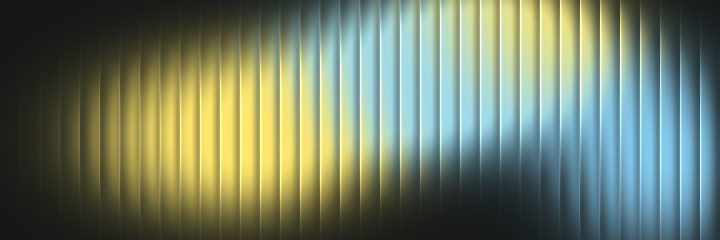
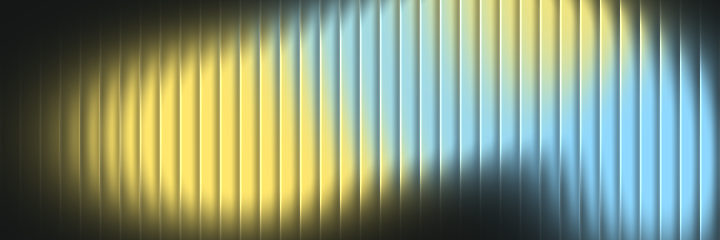
v6 contact: shorter panel, heading right + small light form left, no grain, stronger ribbed gradient reacting to mouse

diff --git a/versions/v6/assets/js/ribbed-gradient.js b/versions/v6/assets/js/ribbed-gradient.js
@@ -8,10 +8,10 @@
   var VS = 'attribute vec2 p;void main(){gl_Position=vec4(p,0.,1.);}';
   var FS = [
     'precision highp float;',
-    'uniform vec2 R,M,FO;uniform float T,N,I,KA;uniform vec3 B,C1,C2;uniform vec4 K0,K1;',
+    'uniform vec2 R,M,FO;uniform float T,N,I,KA,MS;uniform vec3 B,C1,C2;uniform vec4 K0,K1;',
     'float bl(vec2 p,vec2 c,vec2 s){vec2 d=(p-c)/s;return exp(-dot(d,d));}',
     'vec2 fld(vec2 u,float a){',
-    ' vec2 p=vec2(u.x*a,u.y);vec2 m=(M-.5)*vec2(.14*a,.14);',
+    ' vec2 p=vec2(u.x*a,u.y);vec2 m=(M-.5)*vec2(MS*a,MS);',
     ' float y=bl(p,vec2(a*(.22+.12*sin(T*.31))+m.x,.30+.18*cos(T*.23)+m.y),vec2(.46,.36))+.8*bl(p,vec2(a*(.64+.10*cos(T*.27)),.74+.12*sin(T*.19)),vec2(.36,.28));',
     ' float b=bl(p,vec2(a*(.45+.14*sin(T*.21+1.)),.55+.20*cos(T*.29)),vec2(.42,.32))+.8*bl(p,vec2(a*(.88+.06*sin(T*.17)),.28+.15*sin(T*.25+2.)),vec2(.32,.42));',
     ' return vec2(y,b);}',
@@ -24,7 +24,7 @@
     ' float dx=(f-.5)*I*3.2/N*smoothstep(.04,.4,t0);',
     ' vec2 u2=vec2(u.x+dx,u.y);',
     ' vec2 q=fld(u2-FO,a);float tt=q.x+q.y;',
-    ' float amt=smoothstep(0.,1.,tt)*lim(u2);',
+    ' float amt=smoothstep(0.,.7,tt)*lim(u2);',
     ' vec2 w=q*q;vec3 tc=(C1*w.x+C2*w.y)/max(w.x+w.y,1e-4);',
     ' vec3 col=mix(B,tc,amt);',
     ' float l=amt*min(I,1.5);',
@@ -53,7 +53,7 @@
       var b = gl.createBuffer(); gl.bindBuffer(gl.ARRAY_BUFFER, b);
       gl.bufferData(gl.ARRAY_BUFFER, new Float32Array([-1, -1, 1, -1, -1, 1, 1, 1]), gl.STATIC_DRAW);
       var a = gl.getAttribLocation(pr, 'p'); gl.enableVertexAttribArray(a); gl.vertexAttribPointer(a, 2, gl.FLOAT, false, 0, 0);
-      'R M FO T N I KA B C1 C2 K0 K1'.split(' ').forEach(function (n) { loc[n] = gl.getUniformLocation(pr, n); });
+      'R M FO T N I KA MS B C1 C2 K0 K1'.split(' ').forEach(function (n) { loc[n] = gl.getUniformLocation(pr, n); });
       ready = true;
     } catch (e) { ready = false; }
     return ready;
@@ -79,6 +79,7 @@
     this.img = o.img || d.img || '';
     var fc = (o.focus || d.focus || '.5,.5').toString().split(',').map(Number);
     this.fo = [fc[0] - .5, fc[1] - .5];
+    this.ms = o.mouse != null ? o.mouse : (d.mouse != null ? +d.mouse : .14);
     this.hover = !!(o.hover || d.hover);
     this.when = o.when || d.when || '';
     this.host = el.parentElement;
@@ -125,7 +126,7 @@
     this.m.x += (this.m.tx - this.m.x) * .04; this.m.y += (this.m.ty - this.m.y) * .04;
     gl.uniform2f(loc.FO, this.fo[0], this.fo[1]); gl.uniform2f(loc.R, pw, ph); gl.uniform2f(loc.M, this.m.x, this.m.y);
     gl.uniform1f(loc.T, (now / 1000 + this.seed) * this.speed * 4);
-    gl.uniform1f(loc.N, this.ribs); gl.uniform1f(loc.I, this.intensity); gl.uniform1f(loc.KA, this.amt);
+    gl.uniform1f(loc.N, this.ribs); gl.uniform1f(loc.I, this.intensity); gl.uniform1f(loc.KA, this.amt); gl.uniform1f(loc.MS, this.ms);
     gl.uniform3fv(loc.B, this.bg); gl.uniform3fv(loc.C1, this.colors[0]); gl.uniform3fv(loc.C2, this.colors[1] || this.colors[0]);
     gl.uniform4fv(loc.K0, this.boxes[0]); gl.uniform4fv(loc.K1, this.boxes[1]);
     gl.drawArrays(gl.TRIANGLE_STRIP, 0, 4);

diff --git a/versions/v6/index.html b/versions/v6/index.html
@@ -18,7 +18,7 @@
 <link rel="preload" href="assets/fonts/SaraAnkava-Bold-v1.2.woff2" as="font" type="font/woff2" crossorigin>
 <link rel="stylesheet" href="assets/css/style.css?v=6">
 <link rel="stylesheet" href="assets/css/v4.css?v=4">
-<link rel="stylesheet" href="assets/css/v6.css?v=121">
+<link rel="stylesheet" href="assets/css/v6.css?v=123">
 <meta name="robots" content="noindex">
 <script>document.documentElement.classList.add('js');setTimeout(function(){if(!window.__saReady)document.documentElement.classList.remove('js')},3000)</script>
 <script type="application/ld+json">
@@ -190,7 +190,7 @@
 
   <!-- 07 · יצירת קשר -->
   <section class="ct" id="contact" aria-labelledby="contact-title">
-    <div class="ct__panel" data-rg data-ribs="120" data-speed=".12" data-intensity="1" data-focus=".2,.82" data-clear="0,0,1,.72;.36,.72,1,1" data-amt=".6" data-img="assets/gradients/ribbed-wide.jpg">
+    <div class="ct__panel" data-rg data-ribs="120" data-speed=".12" data-intensity="1.5" data-mouse=".35" data-focus=".5,.5" data-clear="0,0,.42,1;.62,0,1,1" data-amt=".6" data-img="assets/gradients/ribbed-wide.jpg">
       <i class="gn gn--l gn--ct" aria-hidden="true"></i>
       <h2 class="ct__h" id="contact-title">יש לכם עסק שגדל? בואו נבין מה השלב הבא שלו.</h2>
       <div data-contact>
@@ -248,7 +248,7 @@
 <script src="assets/js/main.js?v=4" defer></script>
 <script src="assets/js/header.js?v=4" defer></script>
 <script src="assets/js/v4.js?v=2" defer></script>
-<script src="assets/js/ribbed-gradient.js?v=4" defer></script>
+<script src="assets/js/ribbed-gradient.js?v=6" defer></script>
 <script>if(location.hash==="#still"){var s=document.createElement("style");s.textContent=".hb__l,.hb__small,.hb__card,.hb__badge{animation:none!important;transform:none!important;opacity:1!important}.hb__badge{transform:none!important}.ar{animation:none!important;stroke-dashoffset:0!important}";document.head.appendChild(s)}</script>
 <script>(function(){var r=document.querySelector(".cx__row");if(!r)return;var it=[].slice.call(r.querySelectorAll(".cx__f"));function open(x){it.forEach(function(y){y.classList.toggle("is-open",y===x)})}it.forEach(function(x){x.addEventListener("pointerenter",function(){if(matchMedia("(min-width:901px)").matches)open(x)});x.addEventListener("focusin",function(){open(x)});x.addEventListener("click",function(){open(x)})})})()</script>
 <script>(function(){var l=document.querySelector("[data-pj3]");if(!l)return;var it=[].slice.call(l.querySelectorAll(".pj3__c"));function open(x){it.forEach(function(y){y.classList.toggle("is-open",y===x)})}it.forEach(function(x){x.addEventListener("pointerenter",function(e){if(e.pointerType==="mouse"&&matchMedia("(min-width:901px)").matches)open(x)});x.addEventListener("focusin",function(){open(x)});x.addEventListener("click",function(){open(x)})})})()</script>

diff --git a/versions/v6/assets/css/v6.css b/versions/v6/assets/css/v6.css
@@ -1209,3 +1209,18 @@ body::before,body::after{display:none!important}
 .ab__lines p{font-size:clamp(17px,1.5vw,22px);line-height:1.6}
 @media (max-width:900px){.ab__lines{grid-template-columns:1fr}}
 .pr3__ob{height:clamp(140px,19vh,180px)}
+
+/* צור קשר: אזור נמוך, כותרת מימין וטופס קטן ב-Light משמאל, בלי גרעיניות */
+.ct__panel::after{display:none!important}
+.ct__panel{display:grid!important;grid-template-columns:minmax(0,1fr) minmax(0,1fr);align-items:center;gap:0 clamp(32px,5vw,96px);padding:clamp(36px,4vw,56px) var(--v6-m)!important}
+.ct__panel>.ct__h{margin:0;max-width:16ch;font-size:clamp(28px,3.3vw,50px);line-height:1.15}
+.ct__panel>[data-contact]{min-width:0}
+.ct__panel>.ct__steps{grid-column:1/-1;margin-top:clamp(20px,2.4vw,32px);padding-top:16px}
+.ct .madlib{font:300 clamp(17px,1.5vw,22px)/1.9 "Sara Ankava",system-ui,sans-serif}
+.ct .madlib input{font-weight:300;border-bottom-width:1px;min-width:6ch}
+.ct .madlib input[name="phone"]{min-width:9.5ch}
+.ct .contact__actions{margin-top:14px;gap:14px 20px}
+.ct .fine{font-size:12px;margin-top:10px!important}
+.ct__steps li{font-weight:300;font-size:clamp(13px,1.1vw,15px)}
+@media (max-width:900px){.ct__panel{grid-template-columns:1fr!important;gap:24px}.ct__panel>.ct__h{max-width:none}}
+.ct .madlib input[name="phone"]{min-width:11ch}
